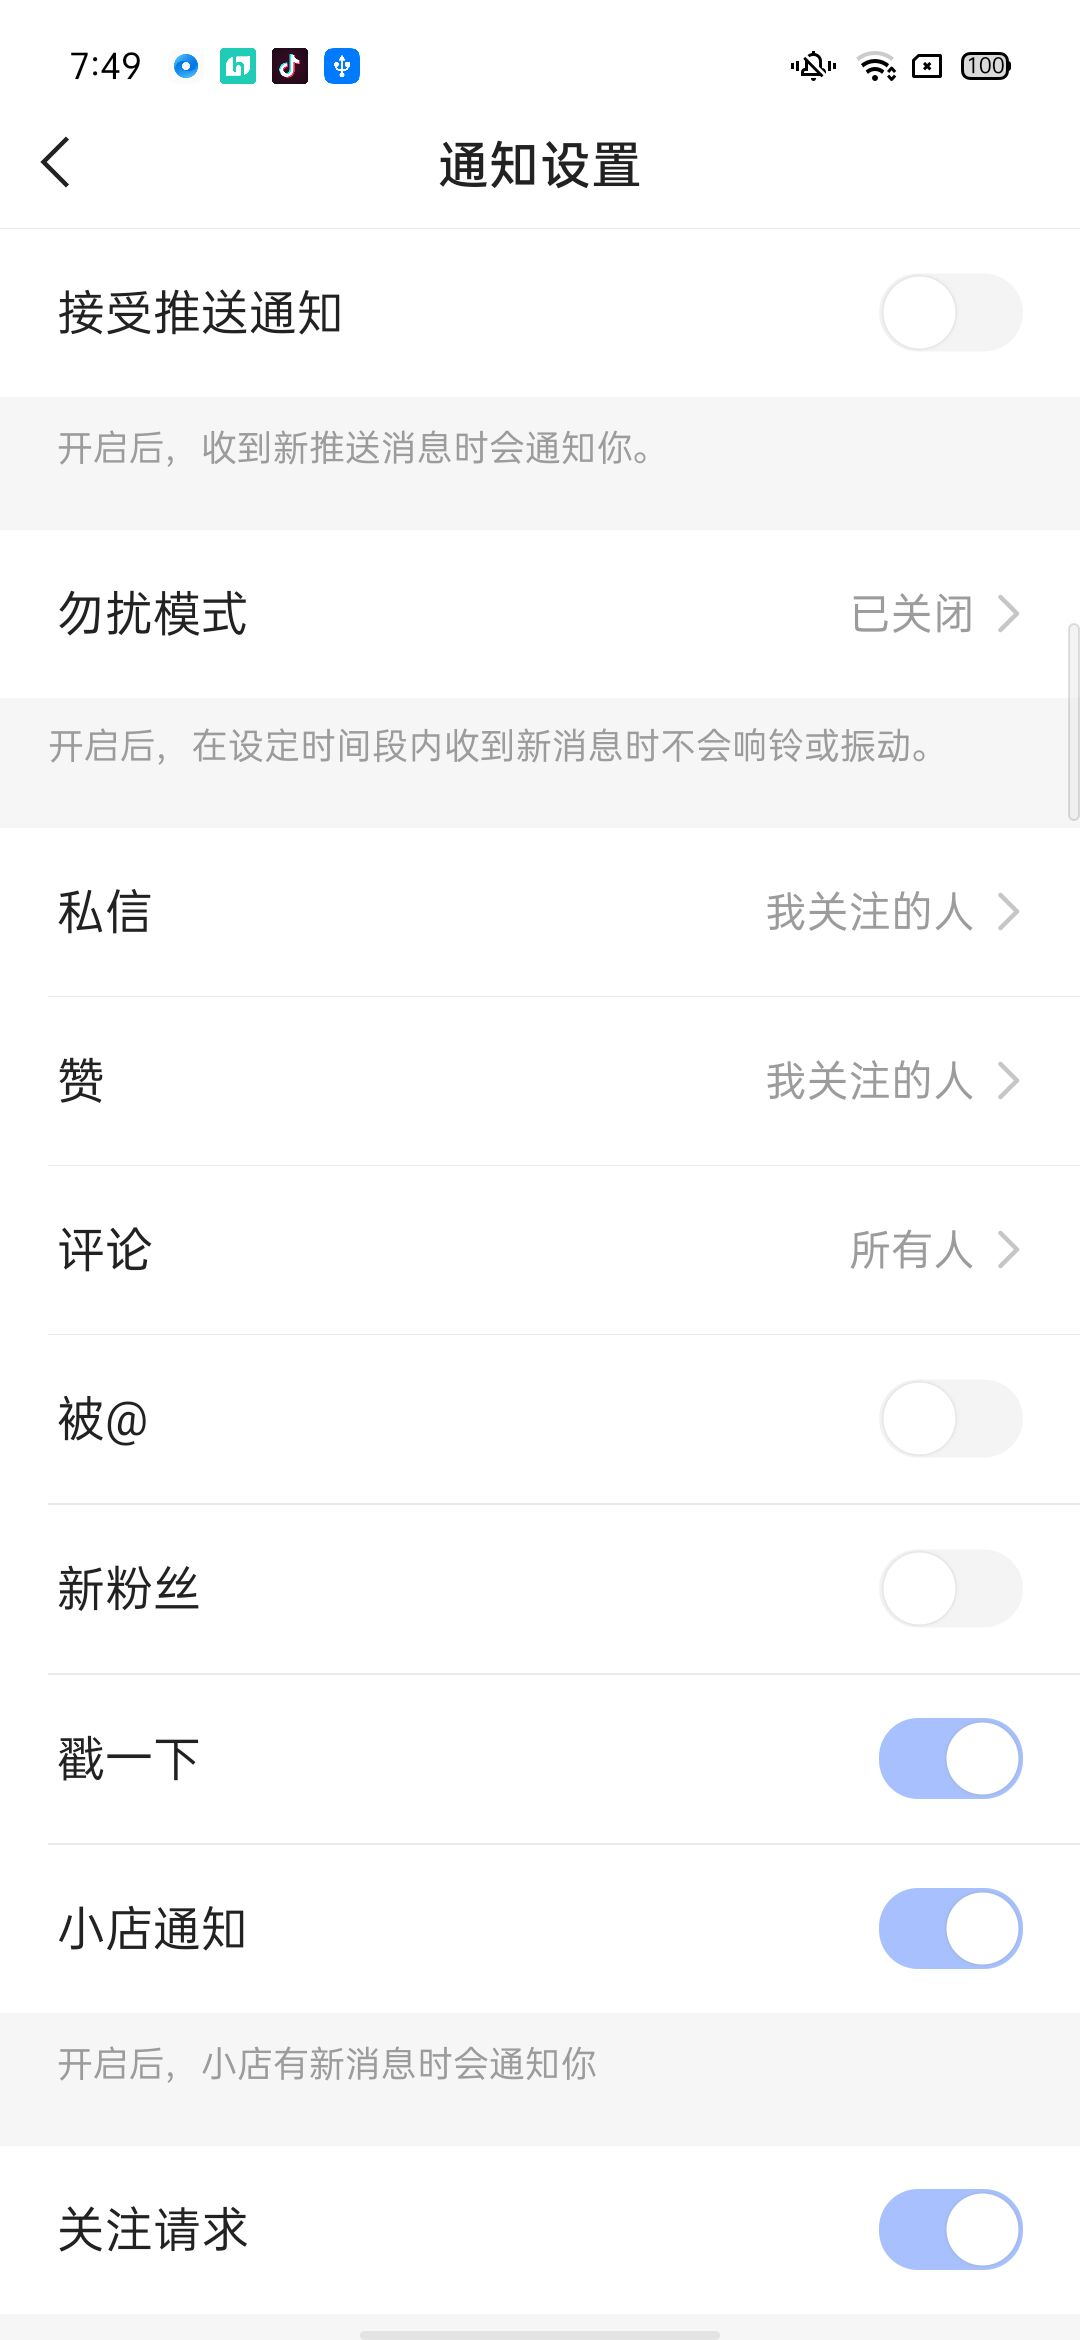
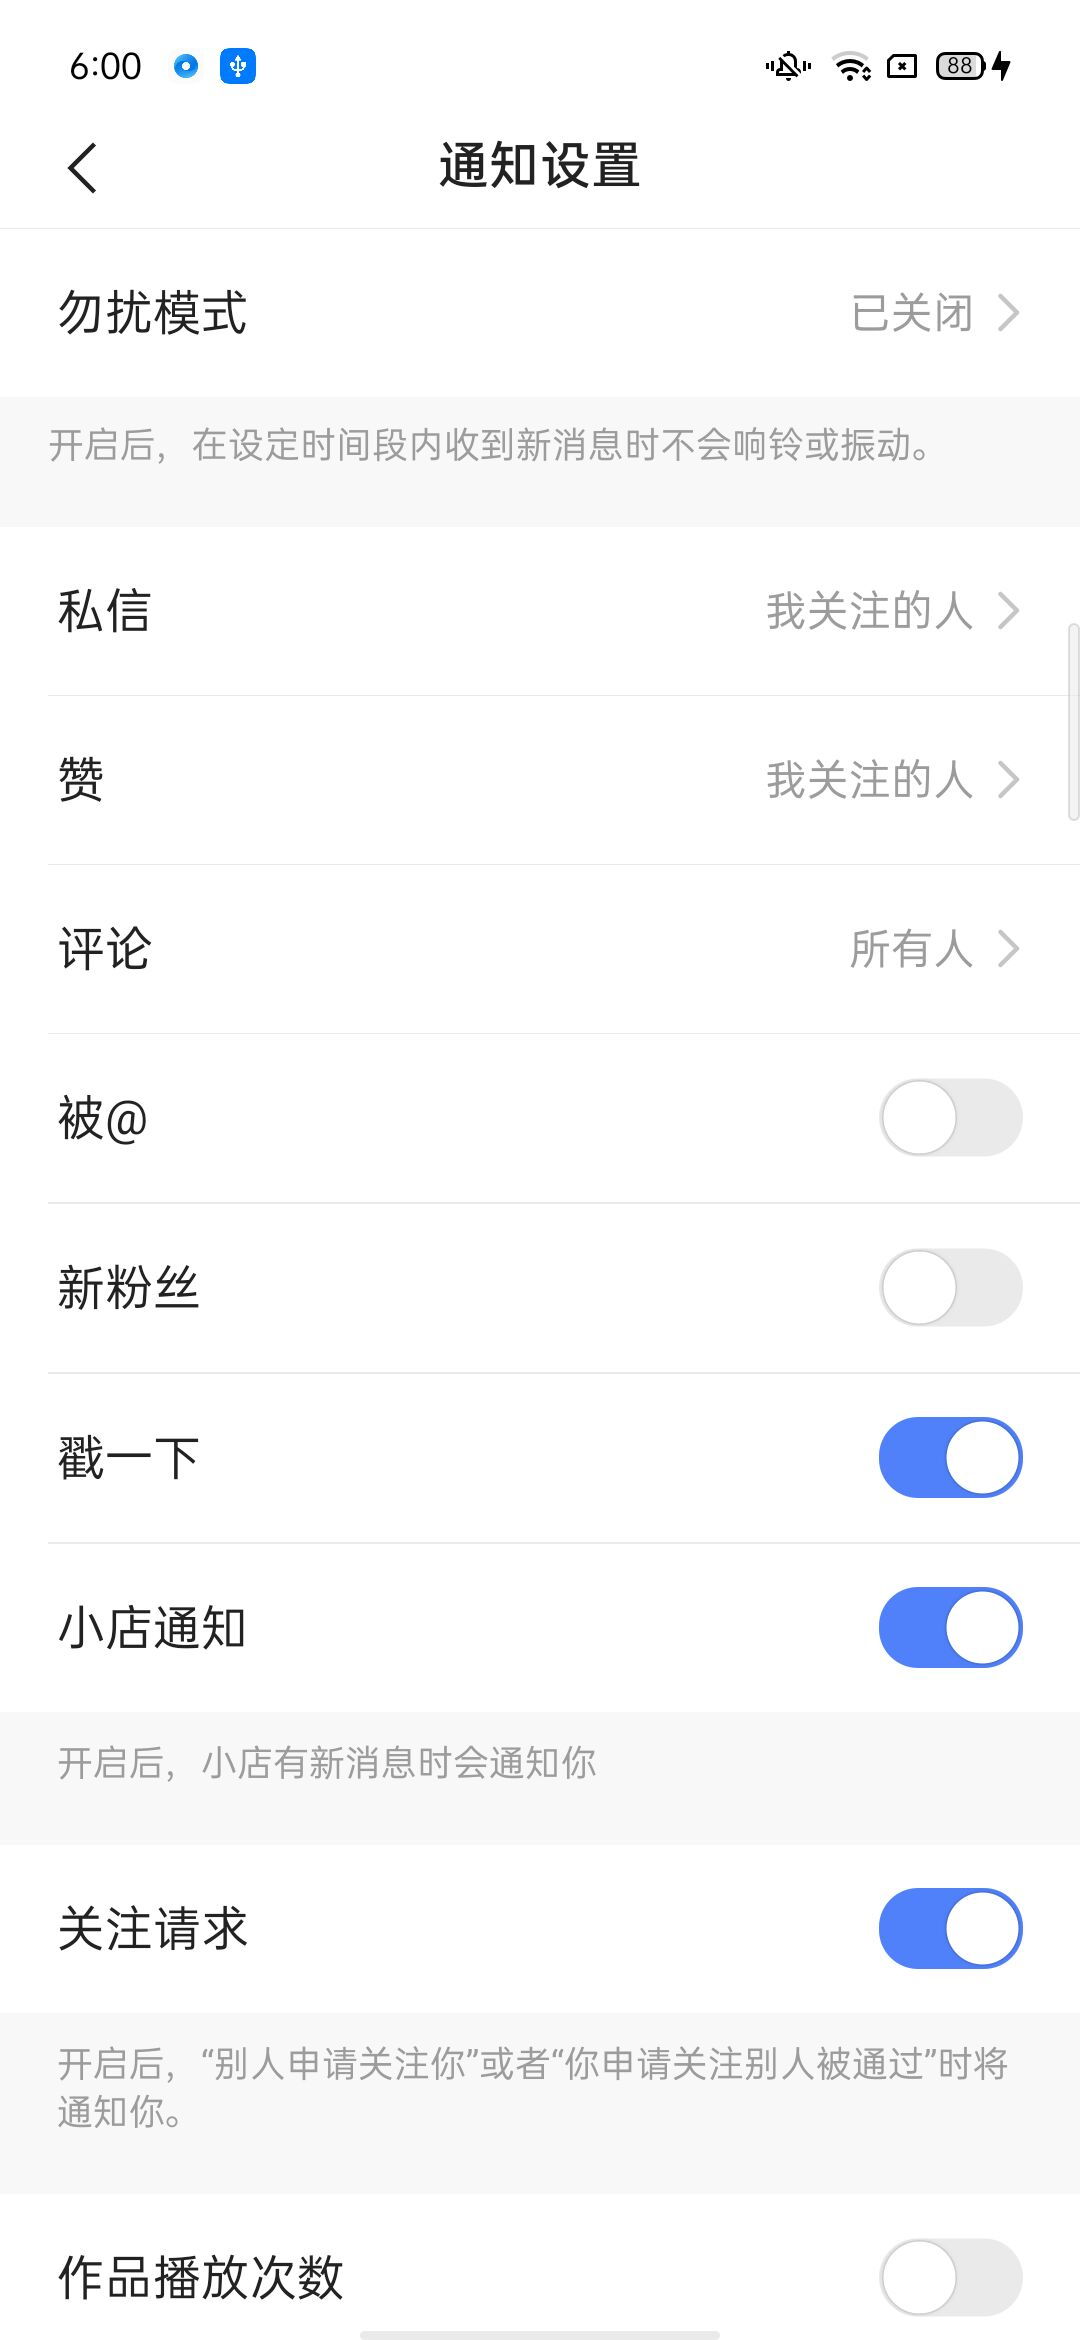
添加不同厂商打开通知设置

diff --git a/testcase/android/test_open_notification.py b/testcase/android/test_open_notification.py
@@ -11,33 +11,34 @@ from krunner.plugins.login import LoginTool
 from pageobjects.android.privacy_popup import PrivacyPopup
 from pageobjects.android.open_notification import Open_Notification
 
+
 class TestOpenPush(KRunner):
     '''
     设置页添加push开关
     '''
-
-    def setUp(self):
+    def setUp(self,phone="13313571109",pasPwd="123123mz"):
         logger.info('启动app')
-        adb.start_schema(get_config_value('serialno')[0],'kwai://myprofile')
-        # time.sleep(2)
-        # logger.info('判断隐私协议')
-        # PrivacyPopup.agree_button.click_if_exist()
-        # self.driver.watch_alert()
-        # time.sleep(3)
-        # logger.info('判断是否登录')
-        # LoginTool().check_login()
-        # # 没有登录，开始登录
-        # LoginTool().login(code="+86", phone_num="13313571109", password="123123mz", type='cmdline')
-        # self.driver.watch_alert()
+        adb.start_schema(get_config_value('serialno')[0], get_config_value('home_scheme'))
+        time.sleep(2)
+        logger.info('判断隐私协议')
+        PrivacyPopup.agree_button.click_if_exist()
+        self.driver.watch_alert()
+        time.sleep(2)
+        if LoginTool().check_login() == False:
+            logger.info('开始登录')
+            LoginTool().login(code="+86", phone_num=phone, password=pasPwd, type='cmdline')
+            self.driver.watch_alert()
+        else:
+            print('当前设备处于登录状态')
         time.sleep(3)
-        logger.info('左滑操作')
-        Open_Notification.setmenu_Btn.swipe_right_element(1, 2)
+        Open_Notification.return_Btn.click_if_exist()
 
     # 整个流程：设置页打开——出现气泡和弹窗
     def test_open_push(self):
         self.common()
         logger.info('获取截图')
         self.get_screen('/bubble.png')
+        time.sleep(2)
         Open_Notification.message_Btn.click(5)
         self.get_screen('/pushPop.png')
         time.sleep(2)
@@ -50,39 +51,36 @@ class TestOpenPush(KRunner):
         self.get_screen('/openPush.png')
         logger.info('执行完成')
 
-
     # 通知关闭后，设置页总开关出现气泡引导
     def test_bubble_guide(self):
         self.common()
         assert Open_Notification.acceptance_Btn.exist()
         self.get_screen('/bubble.png')
 
-
     # 通知关闭后,设置页总开关出现弹窗
     def test_push_popue(self):
         self.common()
-        Open_Notification.message_Btn.click(5)
+        Open_Notification.message_Btn.click()
         self.get_screen('/pushPop.png')
         time.sleep(2)
-        Open_Notification.close_Btn.click(5)
-        Open_Notification.message_Btn.click(5)
-        Open_Notification.open_Btn.click(5)
+        Open_Notification.close_Btn.click()
+        Open_Notification.message_Btn.click()
+        Open_Notification.open_Btn.click()
         time.sleep(2)
-        Open_Notification.turn_on.click(5)
+        Open_Notification.turn_on.click()
         self.driver.back()
         time.sleep(2)
         self.get_screen('/openPush.png')
 
-
     # 打开设置页操作
     def common(self):
         logger.info('打开侧边栏')
-        Open_Notification.setmenu_Btn.click(5)
+        Open_Notification.setmenu_Btn.click()
         logger.info('点击设置按钮')
-        Open_Notification.setting_Btn.click(5)
+        Open_Notification.setting_Btn.click()
         logger.info('点击通知设置按钮')
-        Open_Notification.push_Set.click(5)
-        time.sleep(2)
+        Open_Notification.push_Set.click()
+        time.sleep(1)
 
     # 获取截图
     def get_screen(self, path):

diff --git a/testcase/android/tools.py b/testcase/android/tools.py
@@ -1,0 +1,39 @@
+# -*- coding: utf-8 -*- 
+# @Author  :zhujungui
+# @Time    :2021/11/3 20:58
+# @File    :tools
+# oppo手机打开设置通知
+import time,os
+from pageobjects.android.open_setting_push import OpenSettingPush
+from krunner.utils import adb, logger
+from testcase.krunner import KRunner
+from krunner.conf import get_config_value
+
+class Tools(KRunner):
+    '''不同厂商打开通知'''
+
+    def oppo(self):
+        self.driver.shell('')
+    # 获取屏幕大小
+    def get_screenSize(self):
+        x = self.get_window_size()['width']
+        y = self.get_window_size()['height']
+        return (x, y)
+
+    # 像左滑动
+    def swipeLeft(self):
+        logger.info('swipeLeft ')
+        l = self.get_screenSize()
+        y1 = int(l[1] * 0.5)
+        x1 = int(l[0] * 0.95)
+        x2 = int(l[0] * 0.25)
+        self.swipe(x1, y1, x2, y1, 1000)
+
+    # 像下活动
+    def swipeDown(self):
+        logger.info('swipeDown ')
+        l = self.get_screenSize()
+        y1 = int(l[1] * 0.5)
+        x1 = int(l[0] * 0.95)
+        y2 = int(l[1] * 0.25)
+        self.swipe(x1, y1, x1, y2, 1000)

diff --git a/pageobjects/android/open_notification.py b/pageobjects/android/open_notification.py
@@ -7,13 +7,13 @@ from krunner.core.android.element import AndroidElement
 
 class Open_Notification(object):
     '''设置页添加push开关'''
-
+    return_Btn=AndroidElement(resourceId='id/left_btn',annotation='profile左上角返回')
     setmenu_Btn=AndroidElement(resourceId='com.smile.gifmaker:id/left_btn',annotation='打开侧边栏按钮')
     setting_Btn=AndroidElement(text='设置',annotation='侧边栏设置按钮')
     push_Set=AndroidElement(text='通知设置',annotation='通知设置按钮')
     message_Btn=AndroidElement(text='评论',annotation='评论按钮')
     open_Btn=AndroidElement(resourceId='com.smile.gifmaker:id/positive',annotation='去开启按钮')
-    acceptance_Btn=AndroidElement(text='接受推送通知',annotation='接受推送通知文案')
     close_Btn=AndroidElement(resourceId='com.smile.gifmaker:id/close',annotation='X按钮')
     turn_on=AndroidElement(resourceId='android:id/switch_widget',annotation='开启通知开关')
+    logo_text=AndroidElement(className='android.widget.TextView',annotation='快手logo')
 

diff --git a/pageobjects/android/open_setting_push.py b/pageobjects/android/open_setting_push.py
@@ -1,0 +1,14 @@
+# -*- coding: utf-8 -*- 
+# @Author  :zhujungui
+# @Time    :2021/11/3 20:42
+# @File    :open_setting_push
+import time
+from krunner.core.android.element import AndroidElement
+
+
+
+class OpenSettingPush(object):
+
+    '''不同手机开启通知元素定位'''
+
+
